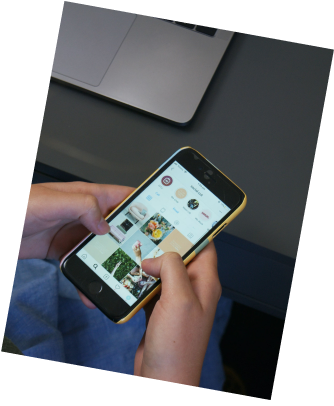
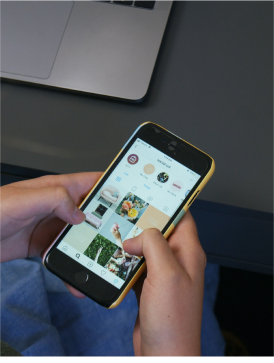
feat: add marketing section

diff --git a/src/style/parts/_marketing.scss b/src/style/parts/_marketing.scss
@@ -1,0 +1,65 @@
+.marketing {
+    background-color: $main-text-color;
+
+    &__wrapper {
+        padding: 118px 0;
+        display: flex;
+        justify-content: center;
+
+        .marketing-photo-box {
+            display: flex;
+            align-items: center;
+
+            &__item:nth-child(2) {
+
+                img {
+                    transform: rotatez(10.24deg);
+                    position: relative;
+                    right: 125px;
+                }
+            }
+        }
+
+        .marketing-box {
+            margin: 52px 0;
+            max-width: 466px;
+            color: #fff;
+
+            &__title {
+                font-weight: 400;
+                font-size: 49px;
+                line-height: 64px;
+                margin-bottom: 40px;
+            }
+
+            .marketing-list {
+                margin: 13px 35px;
+                list-style-image: url("/src/assets/images/figures/Correct.png");
+
+                &__item {
+                    font-weight: 500;
+                    line-height: 30px;
+                }
+            }
+
+            &__subtext {
+                font-size: $font-grey-text;
+                line-height: 25px;
+                color: $submain-grey;
+            }
+
+            .marketing-btn {
+                margin-top: 20px;
+                text-align: center;
+                background: #fff;
+                color: $submain-grey;
+            }
+
+            .marketing-btn:hover {
+                background: $main-part-color;
+                cursor: pointer;
+                color: rgb(255, 255, 255);
+            }
+        }
+    }
+}

diff --git a/index.html b/index.html
@@ -125,6 +125,39 @@
     <div class="clients-wrapper__item"></div>
     </div>
   </section>
+  <section class="marketing">
+    <div class="marketing__wrapper">
+      <div class="marketing-photo-box">
+        <div class="marketing-photo-box__item">
+          <img src="/src/assets/images/main-pictures/page-2/bigger-photo.png" alt="bigger">
+        </div>
+        <div class="marketing-photo-box__item">
+          <img src="/src/assets/images/main-pictures/page-2/smaller-photo.png" alt="smaller">
+        </div>
+      </div>
+      <div class="marketing-box">
+        <div class="marketing-box__title">
+          Take your social media marketing to the next level
+        </div>
+        <ul class="marketing-list">
+          <li class="marketing-list__item">
+            Leo erat magna feugirat nan enim
+          </li>
+          <li class="marketing-list__item">
+            Leo erat magna feugirat
+          </li>
+          <li class="marketing-list__item">
+            Leo erat magna non enim
+          </li>
+        </ul>
+        <div class="marketing-box__subtext">
+          Leo erat magna feugiat pellentesque non enim eu donec diam. Proin donec lacus tortor posuere diam lorem massa
+          viverra aliquam. Vitae nulla nullam in viverra lectus.
+        </div>
+        <div class="btn-box marketing-btn">About Us</div>
+      </div>
+    </div>
+  </section>
   <script type="module" src="/src/js/main.js"></script>
 </body>
 

diff --git a/src/style/main-style.scss b/src/style/main-style.scss
@@ -5,6 +5,7 @@
 @import '../style/parts/_header';
 @import '../style/parts/_promo';
 @import '../style/parts/_clients';
+@import '../style/parts/_marketing';
 
 * {
     margin: 0;
